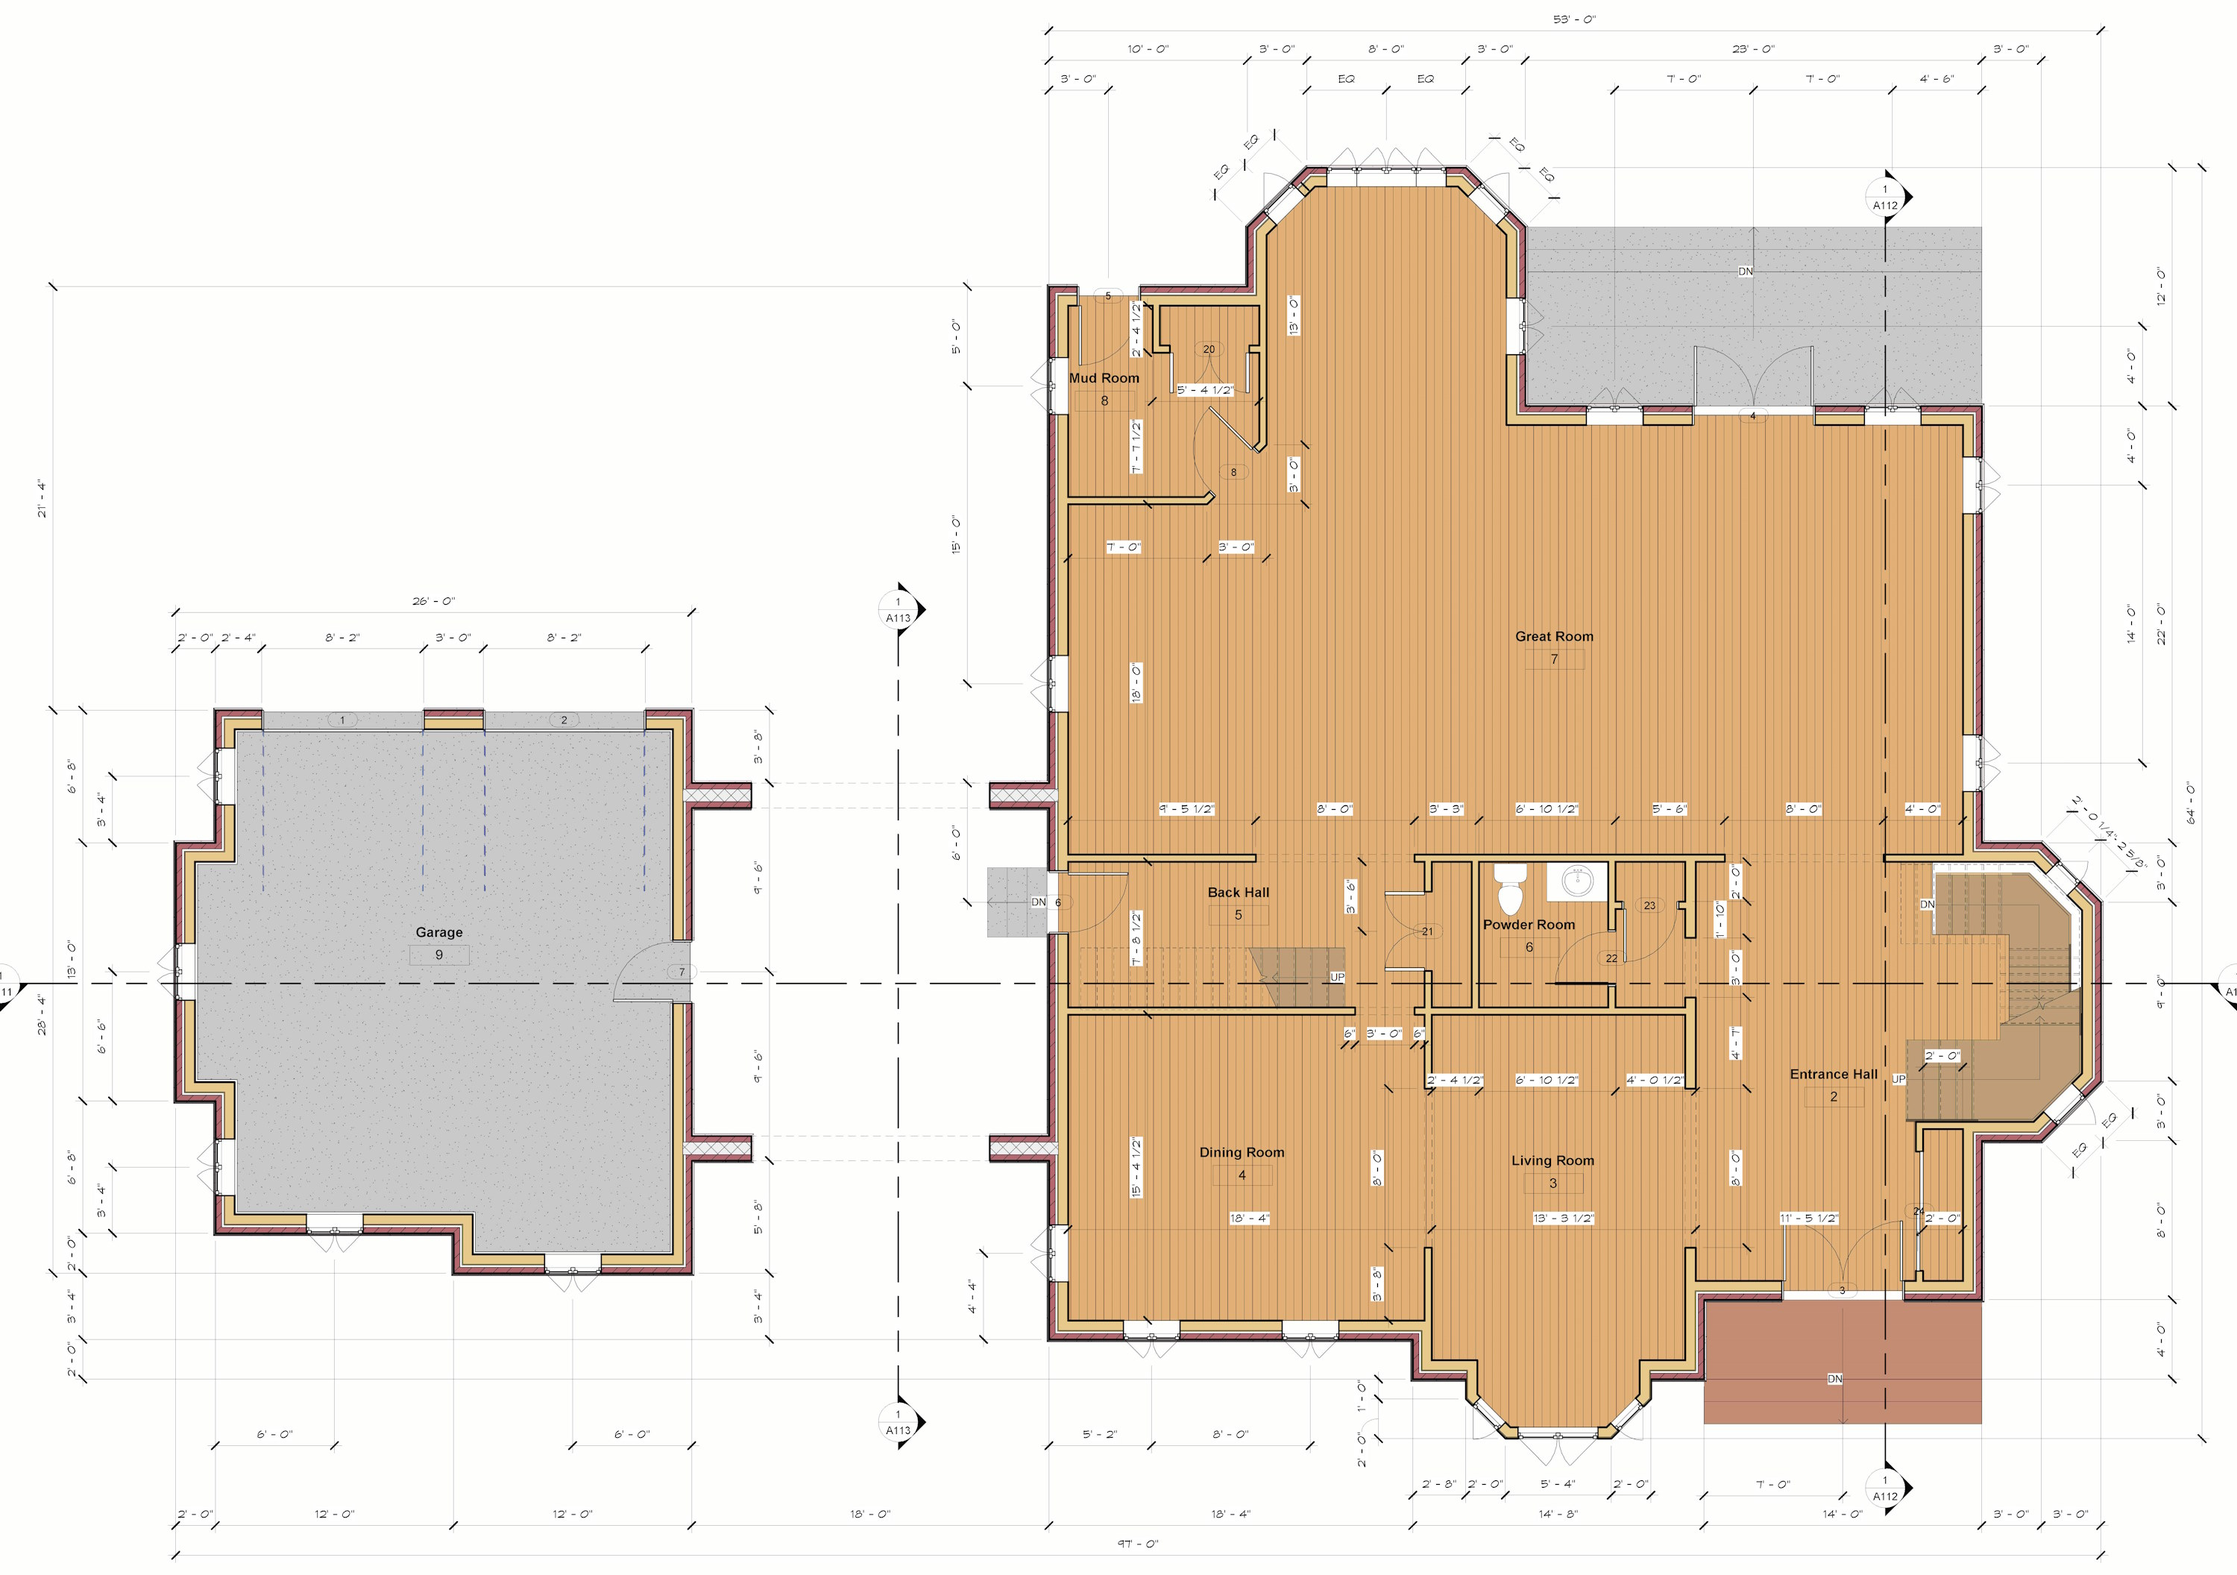
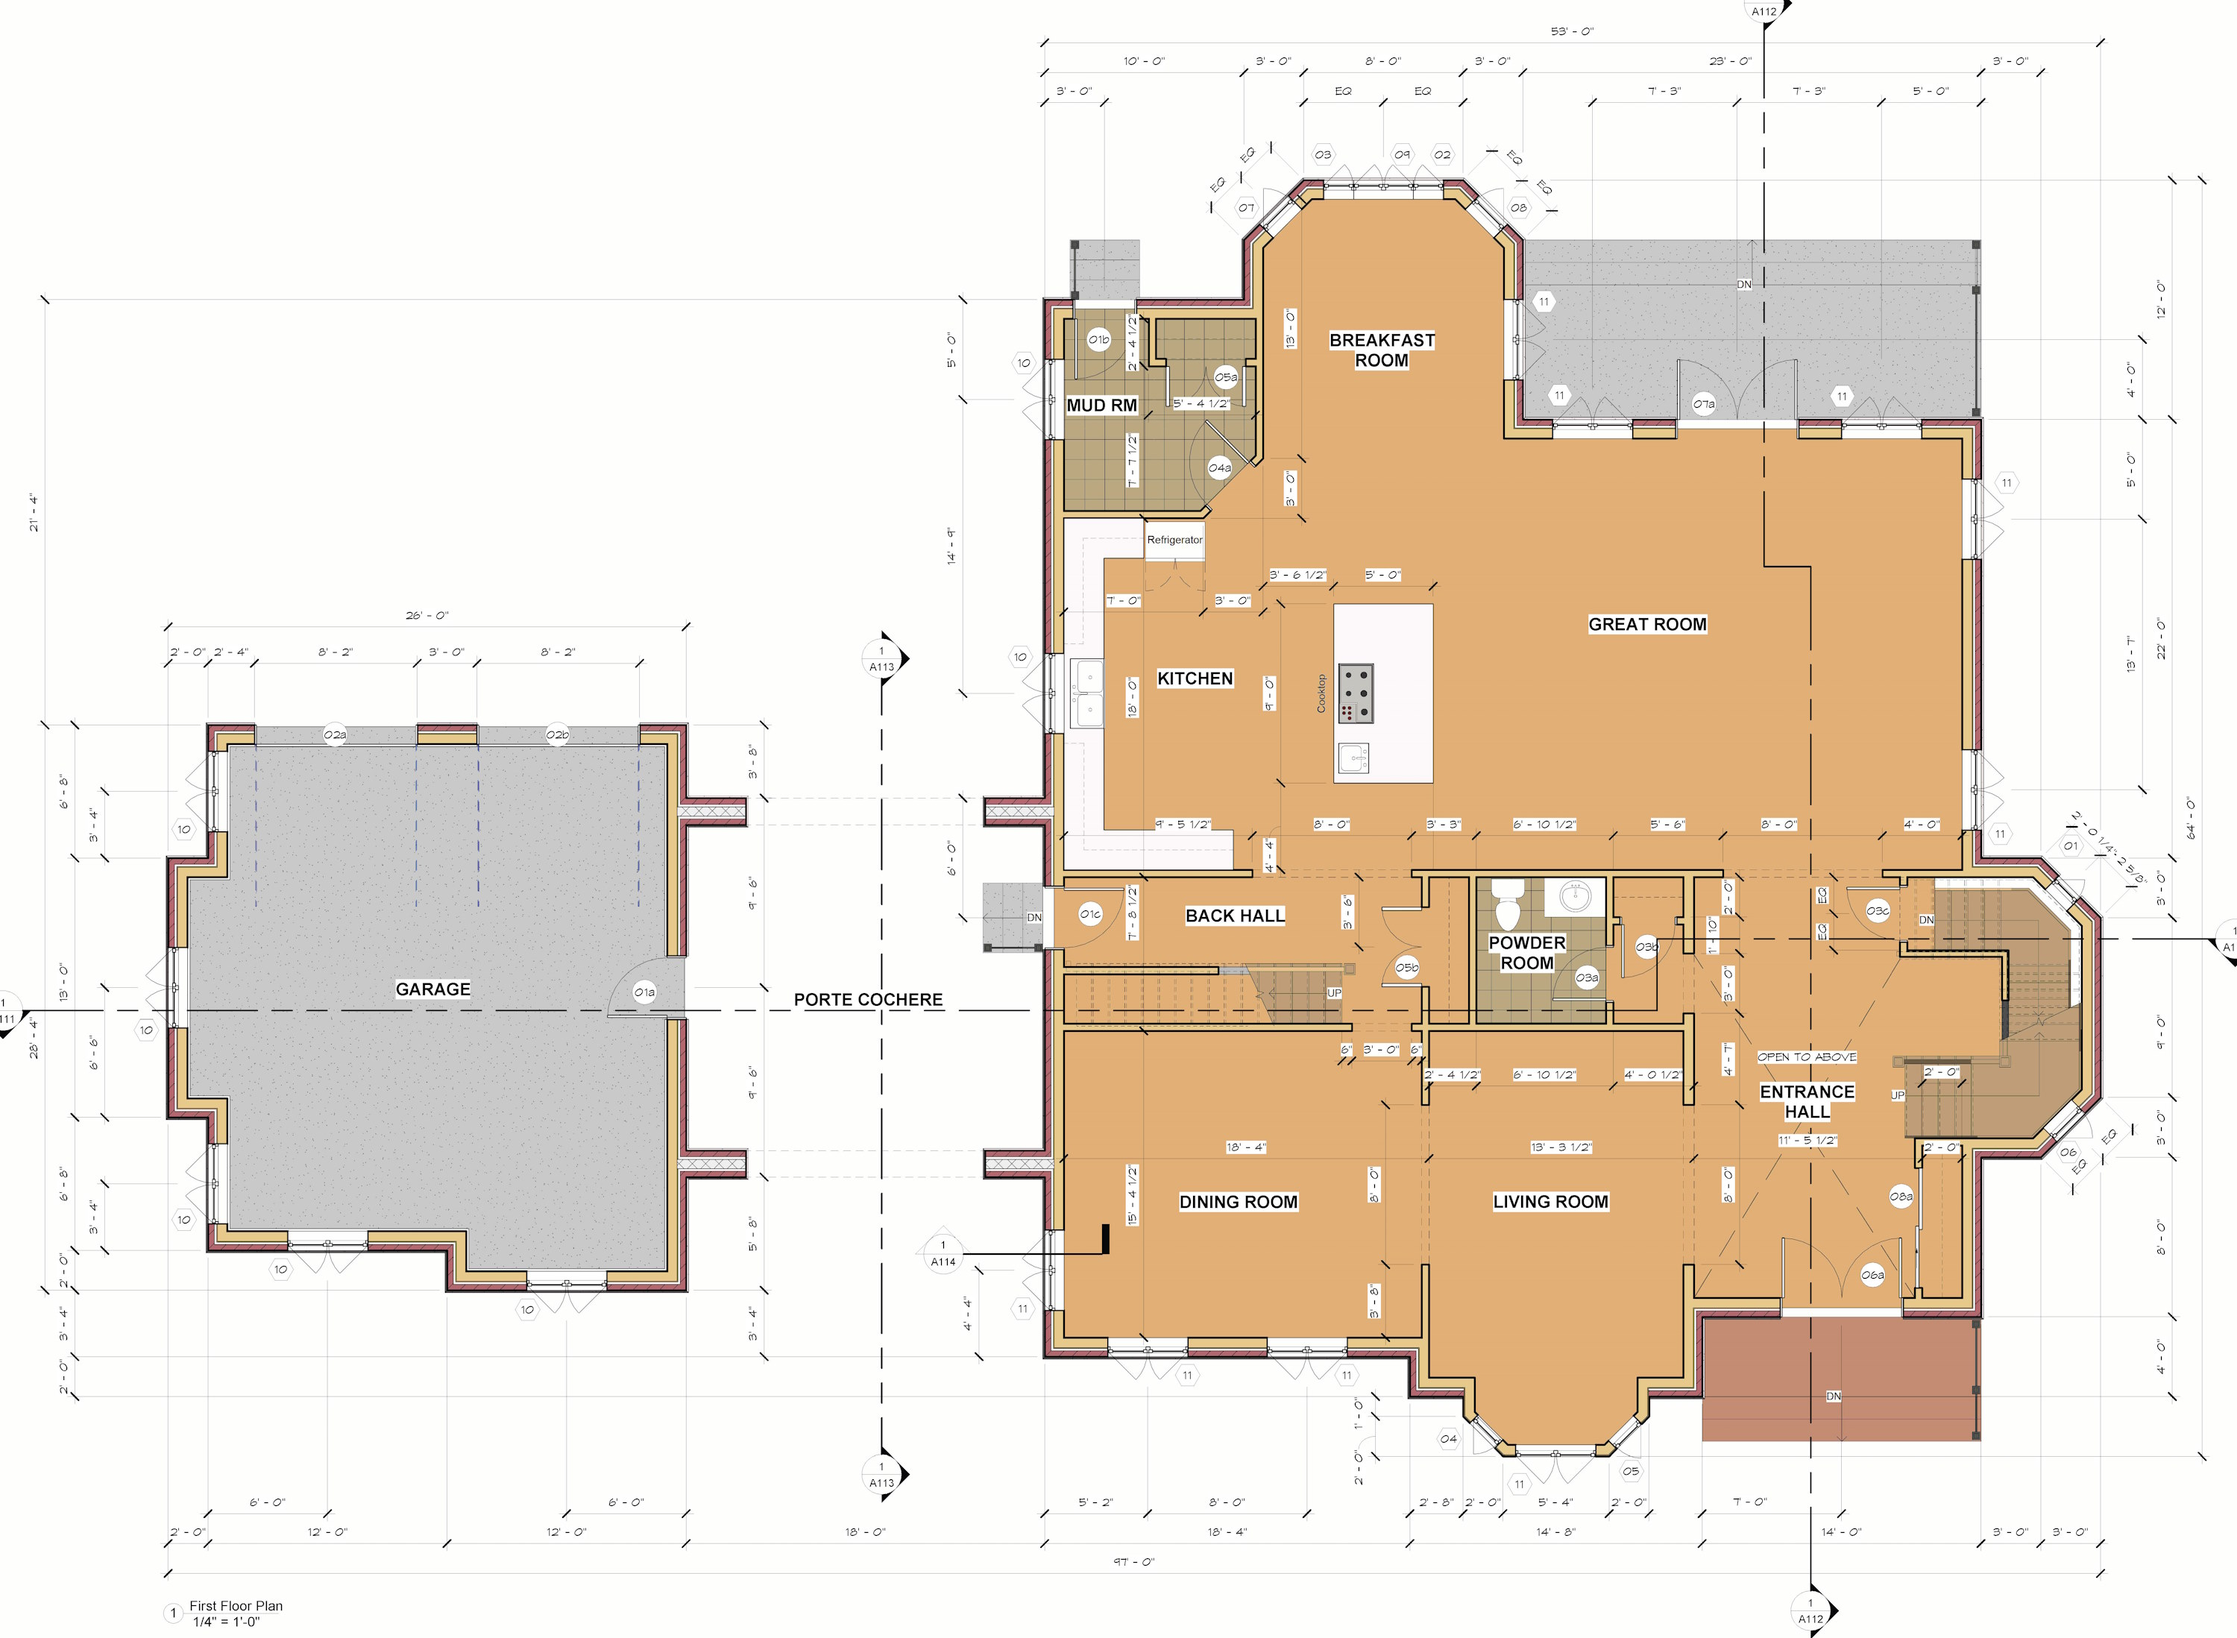
finished writing GBC arch-tech posts

diff --git a/content/blog/architecture-tech-revit-2/index.md b/content/blog/architecture-tech-revit-2/index.md
@@ -13,26 +13,33 @@ description: "Continuing education course"
 draft: false
 ---
 
-...
+Here's a few shots of my final project for a Revit 2 class at George Brown College. The task was to build up a Manor House over two semesters and show:
 
-![Main page sketch](./01-perspective.jpg)
+1. Rendered scenes of the house
+1. Site plan and floor plans, roof plans
+1. Elevations
+1. Sections
 
-...
+## Renders, Elevation
 
-![Main page sketch](./02-elevation.jpg)
+![Main page sketch](./01-renders.jpg)
 
-...
+![Main page sketch](./06-elevation.jpg)
+
+## Plans
+
+![Main page sketch](./02-site.jpg)
 
 ![Main page sketch](./03-1f-plan.jpg)
 
-...
-
 ![Main page sketch](./04-2f-plan.jpg)
 
-...
+![Main page sketch](./05-roof.jpg)
 
-![Main page sketch](./05-section-1.jpg)
+## Sections
 
-...
+![Main page sketch](./07-entrance-section.jpg)
 
-![Main page sketch](./06-section-2.jpg)
+![Main page sketch](./08-dormer-section.jpg)
+
+![Main page sketch](./09-wall-section.jpg)

diff --git a/content/blog/architecture-tech-studio-1/index.md b/content/blog/architecture-tech-studio-1/index.md
@@ -1,7 +1,7 @@
 ---
 title: Architecture Tech, Studio 1
 subtitle:
-date: 2022-01-01 18:02:06
+date: 2021-12-11 18:02:06
 template: post
 category: school
 tags:
@@ -13,26 +13,28 @@ description: "1st year architectural drafting"
 draft: false
 ---
 
-...
+This was my final project for my first semester Studio class at George Brown College. The task was to draft:
+
+1. Typical wall sections, as constructed in Ontario
+1. Kitchen/Bathroom design (plan), working with a pre-determined envelope and bedrooms
+1. Kitchen cabinet design (elevations)
+
+All sheets are tabloid sized (17" x 11"), with my title blocks done in AutoCAD.
+
+## Wall Sections
 
 ![Main page sketch](./a1-a.jpg)
 
-...
-
 ![Main page sketch](./a2-a.jpg)
-
-...
 
 ![Main page sketch](./a3.jpg)
 
-...
+## Kitchen/Bathroom Plan
 
 ![Main page sketch](./a4-a.jpg)
 
-...
+## Kitchen Elevations/Sections
 
 ![Main page sketch](./a5-a.jpg)
-
-...
 
 ![Main page sketch](./a6-a.jpg)

diff --git a/content/blog/uncharted-causeworks/index.md b/content/blog/uncharted-causeworks/index.md
@@ -25,7 +25,7 @@ Without a system like CauseWorks, complex scenarios were laid out by military pl
 
 ## Analysis examples
 
-An approach analysis is shown on the side panel. We can see defineed user objectives and the system suggests potential interventions for achieving them.
+An approach analysis is shown on the side panel. We can see defined user objectives and the system suggests potential interventions for achieving them.
 
 ![Approach analysis screen](./cw-06-approach.jpg)
 
